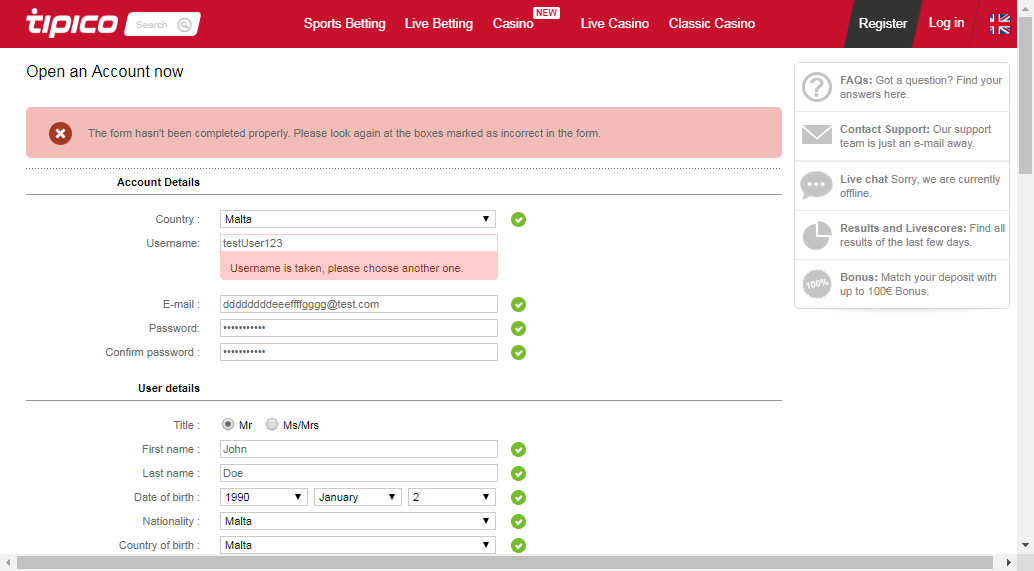
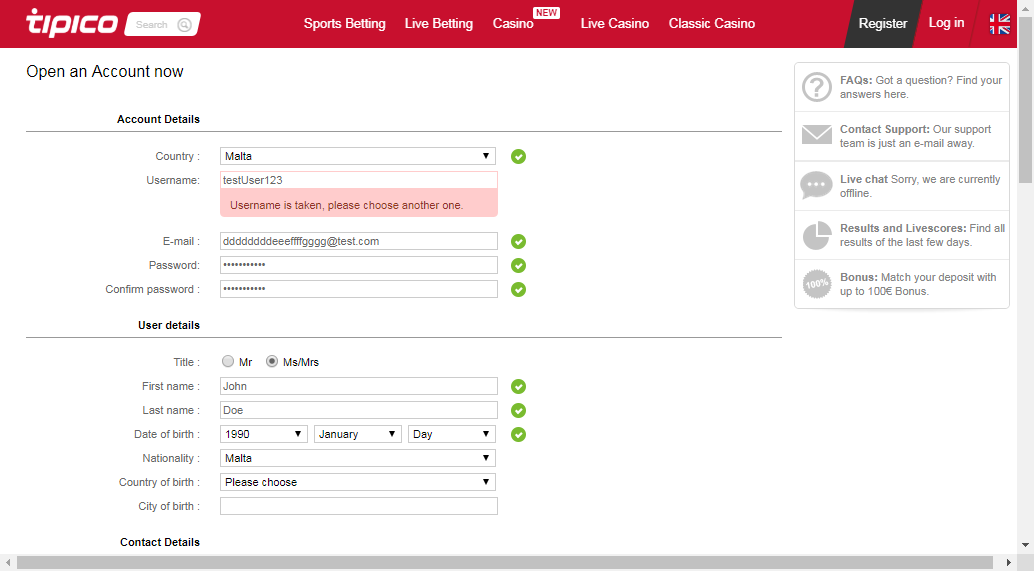
renaming json files, removing xml file , fixing issue with checkboxes

Changed region(s): [[0.0, 0.1786, 0.7737, 0.9825], [0.9903, 0.2977, 1.0, 0.3275]]

diff --git a/pages/RegistrationPageObject.js b/pages/RegistrationPageObject.js
@@ -49,20 +49,16 @@ module.exports = {
   	fillUserDetails(userDetails){
 		// If title passed is 'Mr' no need to do anything since this is the default selected value; however, if title is Ms/Mrs, we need to select it
 		if(userDetails.title === "Ms/Mrs"){
-	  		I.uncheckOption(this.userDetails.titleMsMrs);
+	  		I.checkOption(this.userDetails.titleMsMrs);
 		}
 		I.fillField(this.userDetails.firstName, userDetails.firstName);
 		I.fillField(this.userDetails.lastName, userDetails.lastName);
 		I.selectOption(this.userDetails.dateOfBirthYear, userDetails.dateOfBirthYear);
 		I.selectOption(this.userDetails.dateOfBirthMonth, userDetails.dateOfBirthMonth);
-		//Tentative Fix - doing it only once is not working for some odd reason, trying both the retry and retry checking for error is not working either
 		I.selectOption(this.userDetails.dateOfBirthDay, userDetails.dateOfBirthDay);
-        I.selectOption(this.userDetails.dateOfBirthDay, userDetails.dateOfBirthDay);
-        I.selectOption(this.userDetails.dateOfBirthDay, userDetails.dateOfBirthDay);
         I.selectOption(this.userDetails.nationality, userDetails.nationality);
 		I.selectOption(this.userDetails.countryOfBirth, userDetails.countryOfBirth);
 		I.fillField(this.userDetails.cityOfBirth, userDetails.cityOfBirth);
-
     },
   
   	fillContactDetails(contactDetails){
@@ -75,10 +71,10 @@ module.exports = {
   	tickCheckboxes(checkboxes){
 		//Since by default these checkboxes are unticked, tick only if user passes true
 		if(checkboxes.promotionalEmails === true){
-			I.uncheckOption(this.checkboxes.promotionalEmails);
+			I.checkOption(this.checkboxes.promotionalEmails);
 		}
 		if(checkboxes.receiveNewsletter === true){
-			I.uncheckOption(this.checkboxes.receiveNewsletter);
+			I.checkOption(this.checkboxes.receiveNewsletter);
 		}
   	},
 

diff --git a/RegistrationPage_test.js b/RegistrationPage_test.js
@@ -8,7 +8,7 @@ Feature('Registration Page');
 	});
 
 	Scenario('Test Registration Page - Success', (I, RegistrationPageObject) => {
-		const user_success = getJSONObjectFromJSONFile("./testData/user_success.json");
+		const user_success = getJSONObjectFromJSONFile("./testData/valid_user_1.json");
 		RegistrationPageObject.registerUser(user_success);
 
 		//Make sure that user was logged in with newly created user
@@ -17,7 +17,7 @@ Feature('Registration Page');
 	});
 
 	Scenario('Test Registration Page - Register Duplicate User', (I, RegistrationPageObject, HomePageObject) => {
-		const duplicate_user = getJSONObjectFromJSONFile("./testData/duplicate_user.json");
+		const duplicate_user = getJSONObjectFromJSONFile("./testData/valid_user_2.json");
 
 		//Create first user & make sure user is logged in
 		RegistrationPageObject.registerUser(duplicate_user);

diff --git a/readme.md b/readme.md
@@ -42,6 +42,7 @@ Commands used:
 
 To run: 
 
+-> Start selenium server: selenium-standalone start and make sure you see 'Selenium Started'
 -> To run the tests (should be run in the location where the RegistrationPage_test.js is found): codeceptjs run --reporter mocha-junit-reporter
 -> To run allure report (make sure you have xml report in './output' - should have been generated by the previous step): allure serve /path/to/project/output/
 
